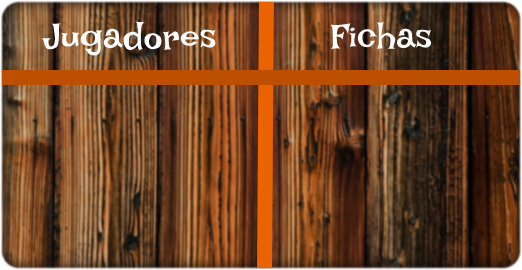
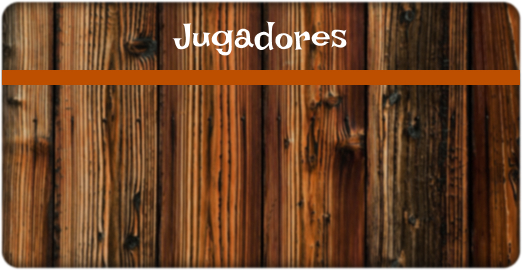
frmLobby
Pantalla lobby y reemplazo de imagenes

Changed region(s): [[0.0613, 0.0, 0.8276, 0.2667], [0.4904, 0.2963, 0.5517, 1.0]]

diff --git a/src/main/java/org/itson/screens/frmLobby.java b/src/main/java/org/itson/screens/frmLobby.java
@@ -1,0 +1,82 @@
+/*
+ * Click nbfs://nbhost/SystemFileSystem/Templates/Licenses/license-default.txt to change this license
+ * Click nbfs://nbhost/SystemFileSystem/Templates/GUIForms/JFrame.java to edit this template
+ */
+package org.itson.screens;
+
+/**
+ *
+ * @author paulvazquez
+ */
+public class frmLobby extends javax.swing.JFrame {
+
+    /**
+     * Creates new form frmLobby
+     */
+    public frmLobby() {
+        initComponents();
+    }
+
+    /**
+     * This method is called from within the constructor to initialize the form.
+     * WARNING: Do NOT modify this code. The content of this method is always
+     * regenerated by the Form Editor.
+     */
+    @SuppressWarnings("unchecked")
+    // <editor-fold defaultstate="collapsed" desc="Generated Code">//GEN-BEGIN:initComponents
+    private void initComponents() {
+
+        setDefaultCloseOperation(javax.swing.WindowConstants.EXIT_ON_CLOSE);
+
+        javax.swing.GroupLayout layout = new javax.swing.GroupLayout(getContentPane());
+        getContentPane().setLayout(layout);
+        layout.setHorizontalGroup(
+            layout.createParallelGroup(javax.swing.GroupLayout.Alignment.LEADING)
+            .addGap(0, 400, Short.MAX_VALUE)
+        );
+        layout.setVerticalGroup(
+            layout.createParallelGroup(javax.swing.GroupLayout.Alignment.LEADING)
+            .addGap(0, 300, Short.MAX_VALUE)
+        );
+
+        pack();
+    }// </editor-fold>//GEN-END:initComponents
+
+    /**
+     * @param args the command line arguments
+     */
+    public static void main(String args[]) {
+        /* Set the Nimbus look and feel */
+        //<editor-fold defaultstate="collapsed" desc=" Look and feel setting code (optional) ">
+        /* If Nimbus (introduced in Java SE 6) is not available, stay with the default look and feel.
+         * For details see http://download.oracle.com/javase/tutorial/uiswing/lookandfeel/plaf.html 
+         */
+        try {
+            for (javax.swing.UIManager.LookAndFeelInfo info : javax.swing.UIManager.getInstalledLookAndFeels()) {
+                if ("Nimbus".equals(info.getName())) {
+                    javax.swing.UIManager.setLookAndFeel(info.getClassName());
+                    break;
+                }
+            }
+        } catch (ClassNotFoundException ex) {
+            java.util.logging.Logger.getLogger(frmLobby.class.getName()).log(java.util.logging.Level.SEVERE, null, ex);
+        } catch (InstantiationException ex) {
+            java.util.logging.Logger.getLogger(frmLobby.class.getName()).log(java.util.logging.Level.SEVERE, null, ex);
+        } catch (IllegalAccessException ex) {
+            java.util.logging.Logger.getLogger(frmLobby.class.getName()).log(java.util.logging.Level.SEVERE, null, ex);
+        } catch (javax.swing.UnsupportedLookAndFeelException ex) {
+            java.util.logging.Logger.getLogger(frmLobby.class.getName()).log(java.util.logging.Level.SEVERE, null, ex);
+        }
+        //</editor-fold>
+
+        /* Create and display the form */
+        java.awt.EventQueue.invokeLater(new Runnable() {
+            public void run() {
+                new frmLobby().setVisible(true);
+            }
+        });
+    }
+
+    // Variables declaration - do not modify//GEN-BEGIN:variables
+    // End of variables declaration//GEN-END:variables
+}
